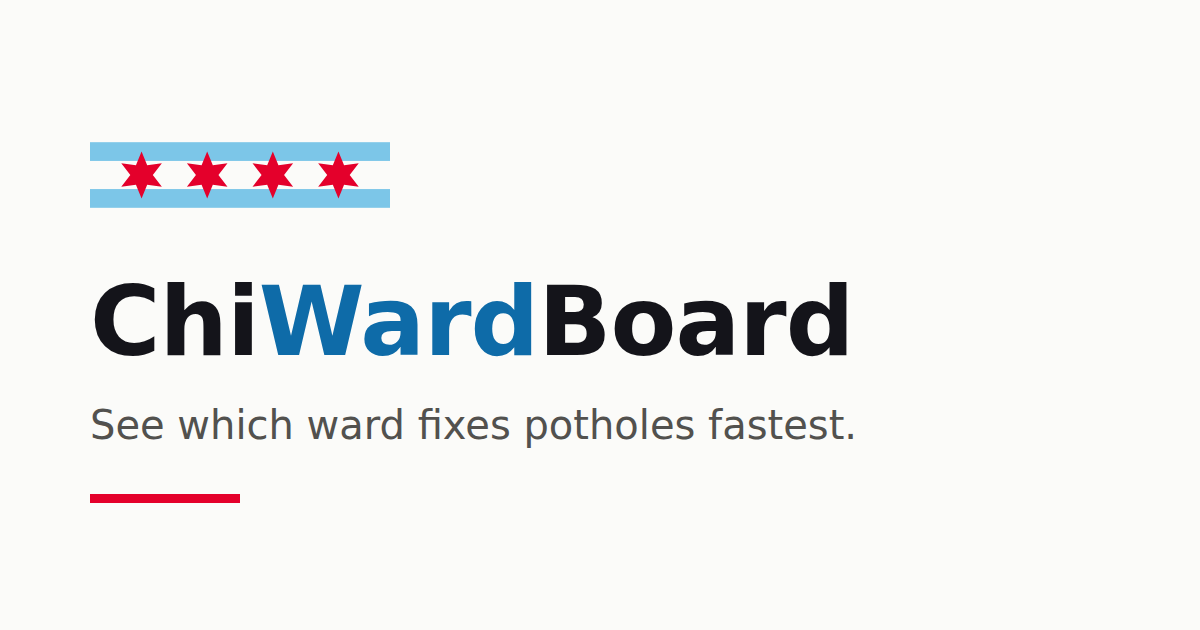
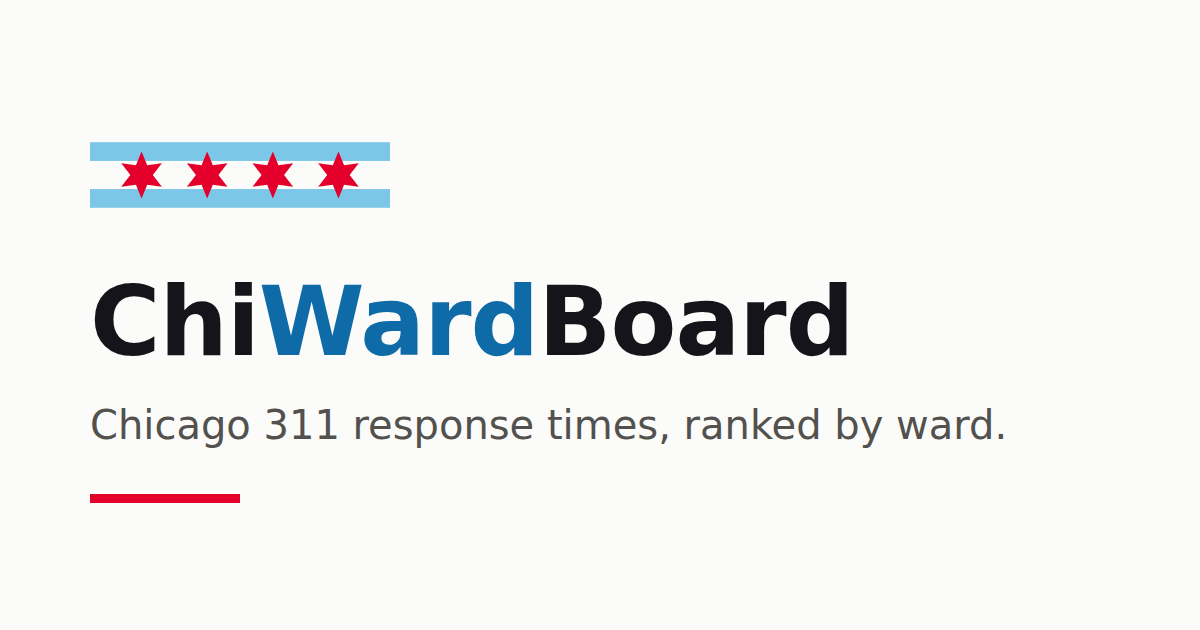
share card: stop printing the same sentence twice
iMessage renders og:title in bold directly beneath the card image, so a
card whose image tagline was also the title showed "See which ward fixes
potholes fastest" twice, once inside the picture and once under it. The
title is the hook and keeps those words; the image now says what the site
is instead of repeating them. The new line also reads correctly under a
ward page's title, which matters because all 50 share this one card.

The share text drops its "- ChiWardBoard" sign-off for the same reason:
the card already carries the name above it, and the URL carries it again.

og:image:alt follows the image it describes, and the image URL is
versioned - the file changed but its path did not, and link crawlers
cache the picture hard enough that they would keep serving the old one.

Changed region(s): [[0.0617, 0.6333, 0.8325, 0.7238]]

diff --git a/ward-24.html b/ward-24.html
@@ -16,14 +16,14 @@
 <meta property="og:url" content="https://chiwardboard.com/ward-24.html">
 <meta property="og:title" content="Ward 24: North Lawndale, South Lawndale, West Garfield Park - ChiWardBoard">
 <meta property="og:description" content="How fast the city closes 311 requests in Chicago's Ward 24 (North Lawndale, South Lawndale, West Garfield Park), represented by Monique L. Scott: 10 request types ranked against the other 49 wards, from public records.">
-<meta property="og:image" content="https://chiwardboard.com/assets/og.png">
+<meta property="og:image" content="https://chiwardboard.com/assets/og.png?v=2">
 <meta property="og:image:width" content="1200">
 <meta property="og:image:height" content="630">
-<meta property="og:image:alt" content="ChiWardBoard - see which ward fixes potholes fastest">
+<meta property="og:image:alt" content="ChiWardBoard - Chicago 311 response times, ranked by ward">
 <meta name="twitter:card" content="summary_large_image">
 <meta name="twitter:title" content="Ward 24: North Lawndale, South Lawndale, West Garfield Park - ChiWardBoard">
 <meta name="twitter:description" content="How fast the city closes 311 requests in Chicago's Ward 24 (North Lawndale, South Lawndale, West Garfield Park), represented by Monique L. Scott: 10 request types ranked against the other 49 wards, from public records.">
-<meta name="twitter:image" content="https://chiwardboard.com/assets/og.png">
+<meta name="twitter:image" content="https://chiwardboard.com/assets/og.png?v=2">
 <link rel="preconnect" href="https://fonts.googleapis.com">
 <link rel="preconnect" href="https://fonts.gstatic.com" crossorigin>
 <link href="https://fonts.googleapis.com/css2?family=Big+Shoulders:opsz,wght@10..72,500;10..72,700;10..72,800&display=swap" rel="stylesheet">

diff --git a/ward-5.html b/ward-5.html
@@ -16,14 +16,14 @@
 <meta property="og:url" content="https://chiwardboard.com/ward-5.html">
 <meta property="og:title" content="Ward 5: South Shore, Hyde Park, Greater Grand Crossing - ChiWardBoard">
 <meta property="og:description" content="How fast the city closes 311 requests in Chicago's Ward 5 (South Shore, Hyde Park, Greater Grand Crossing), represented by Desmon C. Yancy: 10 request types ranked against the other 49 wards, from public records.">
-<meta property="og:image" content="https://chiwardboard.com/assets/og.png">
+<meta property="og:image" content="https://chiwardboard.com/assets/og.png?v=2">
 <meta property="og:image:width" content="1200">
 <meta property="og:image:height" content="630">
-<meta property="og:image:alt" content="ChiWardBoard - see which ward fixes potholes fastest">
+<meta property="og:image:alt" content="ChiWardBoard - Chicago 311 response times, ranked by ward">
 <meta name="twitter:card" content="summary_large_image">
 <meta name="twitter:title" content="Ward 5: South Shore, Hyde Park, Greater Grand Crossing - ChiWardBoard">
 <meta name="twitter:description" content="How fast the city closes 311 requests in Chicago's Ward 5 (South Shore, Hyde Park, Greater Grand Crossing), represented by Desmon C. Yancy: 10 request types ranked against the other 49 wards, from public records.">
-<meta name="twitter:image" content="https://chiwardboard.com/assets/og.png">
+<meta name="twitter:image" content="https://chiwardboard.com/assets/og.png?v=2">
 <link rel="preconnect" href="https://fonts.googleapis.com">
 <link rel="preconnect" href="https://fonts.gstatic.com" crossorigin>
 <link href="https://fonts.googleapis.com/css2?family=Big+Shoulders:opsz,wght@10..72,500;10..72,700;10..72,800&display=swap" rel="stylesheet">

diff --git a/ward-17.html b/ward-17.html
@@ -16,14 +16,14 @@
 <meta property="og:url" content="https://chiwardboard.com/ward-17.html">
 <meta property="og:title" content="Ward 17: Auburn Gresham, West Englewood, Chicago Lawn - ChiWardBoard">
 <meta property="og:description" content="How fast the city closes 311 requests in Chicago's Ward 17 (Auburn Gresham, West Englewood, Chicago Lawn), represented by David H. Moore: 10 request types ranked against the other 49 wards, from public records.">
-<meta property="og:image" content="https://chiwardboard.com/assets/og.png">
+<meta property="og:image" content="https://chiwardboard.com/assets/og.png?v=2">
 <meta property="og:image:width" content="1200">
 <meta property="og:image:height" content="630">
-<meta property="og:image:alt" content="ChiWardBoard - see which ward fixes potholes fastest">
+<meta property="og:image:alt" content="ChiWardBoard - Chicago 311 response times, ranked by ward">
 <meta name="twitter:card" content="summary_large_image">
 <meta name="twitter:title" content="Ward 17: Auburn Gresham, West Englewood, Chicago Lawn - ChiWardBoard">
 <meta name="twitter:description" content="How fast the city closes 311 requests in Chicago's Ward 17 (Auburn Gresham, West Englewood, Chicago Lawn), represented by David H. Moore: 10 request types ranked against the other 49 wards, from public records.">
-<meta name="twitter:image" content="https://chiwardboard.com/assets/og.png">
+<meta name="twitter:image" content="https://chiwardboard.com/assets/og.png?v=2">
 <link rel="preconnect" href="https://fonts.googleapis.com">
 <link rel="preconnect" href="https://fonts.gstatic.com" crossorigin>
 <link href="https://fonts.googleapis.com/css2?family=Big+Shoulders:opsz,wght@10..72,500;10..72,700;10..72,800&display=swap" rel="stylesheet">

diff --git a/ward-21.html b/ward-21.html
@@ -16,14 +16,14 @@
 <meta property="og:url" content="https://chiwardboard.com/ward-21.html">
 <meta property="og:title" content="Ward 21: Washington Heights, West Pullman, Roseland - ChiWardBoard">
 <meta property="og:description" content="How fast the city closes 311 requests in Chicago's Ward 21 (Washington Heights, West Pullman, Roseland), represented by Ronnie L. Mosley: 10 request types ranked against the other 49 wards, from public records.">
-<meta property="og:image" content="https://chiwardboard.com/assets/og.png">
+<meta property="og:image" content="https://chiwardboard.com/assets/og.png?v=2">
 <meta property="og:image:width" content="1200">
 <meta property="og:image:height" content="630">
-<meta property="og:image:alt" content="ChiWardBoard - see which ward fixes potholes fastest">
+<meta property="og:image:alt" content="ChiWardBoard - Chicago 311 response times, ranked by ward">
 <meta name="twitter:card" content="summary_large_image">
 <meta name="twitter:title" content="Ward 21: Washington Heights, West Pullman, Roseland - ChiWardBoard">
 <meta name="twitter:description" content="How fast the city closes 311 requests in Chicago's Ward 21 (Washington Heights, West Pullman, Roseland), represented by Ronnie L. Mosley: 10 request types ranked against the other 49 wards, from public records.">
-<meta name="twitter:image" content="https://chiwardboard.com/assets/og.png">
+<meta name="twitter:image" content="https://chiwardboard.com/assets/og.png?v=2">
 <link rel="preconnect" href="https://fonts.googleapis.com">
 <link rel="preconnect" href="https://fonts.gstatic.com" crossorigin>
 <link href="https://fonts.googleapis.com/css2?family=Big+Shoulders:opsz,wght@10..72,500;10..72,700;10..72,800&display=swap" rel="stylesheet">

diff --git a/ward-45.html b/ward-45.html
@@ -16,14 +16,14 @@
 <meta property="og:url" content="https://chiwardboard.com/ward-45.html">
 <meta property="og:title" content="Ward 45: Jefferson Park, Portage Park, Forest Glen - ChiWardBoard">
 <meta property="og:description" content="How fast the city closes 311 requests in Chicago's Ward 45 (Jefferson Park, Portage Park, Forest Glen), represented by James M. Gardiner: 10 request types ranked against the other 49 wards, from public records.">
-<meta property="og:image" content="https://chiwardboard.com/assets/og.png">
+<meta property="og:image" content="https://chiwardboard.com/assets/og.png?v=2">
 <meta property="og:image:width" content="1200">
 <meta property="og:image:height" content="630">
-<meta property="og:image:alt" content="ChiWardBoard - see which ward fixes potholes fastest">
+<meta property="og:image:alt" content="ChiWardBoard - Chicago 311 response times, ranked by ward">
 <meta name="twitter:card" content="summary_large_image">
 <meta name="twitter:title" content="Ward 45: Jefferson Park, Portage Park, Forest Glen - ChiWardBoard">
 <meta name="twitter:description" content="How fast the city closes 311 requests in Chicago's Ward 45 (Jefferson Park, Portage Park, Forest Glen), represented by James M. Gardiner: 10 request types ranked against the other 49 wards, from public records.">
-<meta name="twitter:image" content="https://chiwardboard.com/assets/og.png">
+<meta name="twitter:image" content="https://chiwardboard.com/assets/og.png?v=2">
 <link rel="preconnect" href="https://fonts.googleapis.com">
 <link rel="preconnect" href="https://fonts.gstatic.com" crossorigin>
 <link href="https://fonts.googleapis.com/css2?family=Big+Shoulders:opsz,wght@10..72,500;10..72,700;10..72,800&display=swap" rel="stylesheet">

diff --git a/ward-7.html b/ward-7.html
@@ -16,14 +16,14 @@
 <meta property="og:url" content="https://chiwardboard.com/ward-7.html">
 <meta property="og:title" content="Ward 7: South Shore, South Chicago, South Deering - ChiWardBoard">
 <meta property="og:description" content="How fast the city closes 311 requests in Chicago's Ward 7 (South Shore, South Chicago, South Deering), represented by Gregory I. Mitchell: 10 request types ranked against the other 49 wards, from public records.">
-<meta property="og:image" content="https://chiwardboard.com/assets/og.png">
+<meta property="og:image" content="https://chiwardboard.com/assets/og.png?v=2">
 <meta property="og:image:width" content="1200">
 <meta property="og:image:height" content="630">
-<meta property="og:image:alt" content="ChiWardBoard - see which ward fixes potholes fastest">
+<meta property="og:image:alt" content="ChiWardBoard - Chicago 311 response times, ranked by ward">
 <meta name="twitter:card" content="summary_large_image">
 <meta name="twitter:title" content="Ward 7: South Shore, South Chicago, South Deering - ChiWardBoard">
 <meta name="twitter:description" content="How fast the city closes 311 requests in Chicago's Ward 7 (South Shore, South Chicago, South Deering), represented by Gregory I. Mitchell: 10 request types ranked against the other 49 wards, from public records.">
-<meta name="twitter:image" content="https://chiwardboard.com/assets/og.png">
+<meta name="twitter:image" content="https://chiwardboard.com/assets/og.png?v=2">
 <link rel="preconnect" href="https://fonts.googleapis.com">
 <link rel="preconnect" href="https://fonts.gstatic.com" crossorigin>
 <link href="https://fonts.googleapis.com/css2?family=Big+Shoulders:opsz,wght@10..72,500;10..72,700;10..72,800&display=swap" rel="stylesheet">

diff --git a/ward-16.html b/ward-16.html
@@ -16,14 +16,14 @@
 <meta property="og:url" content="https://chiwardboard.com/ward-16.html">
 <meta property="og:title" content="Ward 16: Chicago Lawn, West Englewood, Englewood - ChiWardBoard">
 <meta property="og:description" content="How fast the city closes 311 requests in Chicago's Ward 16 (Chicago Lawn, West Englewood, Englewood), represented by Stephanie D. Coleman: 10 request types ranked against the other 49 wards, from public records.">
-<meta property="og:image" content="https://chiwardboard.com/assets/og.png">
+<meta property="og:image" content="https://chiwardboard.com/assets/og.png?v=2">
 <meta property="og:image:width" content="1200">
 <meta property="og:image:height" content="630">
-<meta property="og:image:alt" content="ChiWardBoard - see which ward fixes potholes fastest">
+<meta property="og:image:alt" content="ChiWardBoard - Chicago 311 response times, ranked by ward">
 <meta name="twitter:card" content="summary_large_image">
 <meta name="twitter:title" content="Ward 16: Chicago Lawn, West Englewood, Englewood - ChiWardBoard">
 <meta name="twitter:description" content="How fast the city closes 311 requests in Chicago's Ward 16 (Chicago Lawn, West Englewood, Englewood), represented by Stephanie D. Coleman: 10 request types ranked against the other 49 wards, from public records.">
-<meta name="twitter:image" content="https://chiwardboard.com/assets/og.png">
+<meta name="twitter:image" content="https://chiwardboard.com/assets/og.png?v=2">
 <link rel="preconnect" href="https://fonts.googleapis.com">
 <link rel="preconnect" href="https://fonts.gstatic.com" crossorigin>
 <link href="https://fonts.googleapis.com/css2?family=Big+Shoulders:opsz,wght@10..72,500;10..72,700;10..72,800&display=swap" rel="stylesheet">

diff --git a/ward-27.html b/ward-27.html
@@ -16,14 +16,14 @@
 <meta property="og:url" content="https://chiwardboard.com/ward-27.html">
 <meta property="og:title" content="Ward 27: Near West Side, West Town, Humboldt Park - ChiWardBoard">
 <meta property="og:description" content="How fast the city closes 311 requests in Chicago's Ward 27 (Near West Side, West Town, Humboldt Park), represented by Walter R. Burnett: 10 request types ranked against the other 49 wards, from public records.">
-<meta property="og:image" content="https://chiwardboard.com/assets/og.png">
+<meta property="og:image" content="https://chiwardboard.com/assets/og.png?v=2">
 <meta property="og:image:width" content="1200">
 <meta property="og:image:height" content="630">
-<meta property="og:image:alt" content="ChiWardBoard - see which ward fixes potholes fastest">
+<meta property="og:image:alt" content="ChiWardBoard - Chicago 311 response times, ranked by ward">
 <meta name="twitter:card" content="summary_large_image">
 <meta name="twitter:title" content="Ward 27: Near West Side, West Town, Humboldt Park - ChiWardBoard">
 <meta name="twitter:description" content="How fast the city closes 311 requests in Chicago's Ward 27 (Near West Side, West Town, Humboldt Park), represented by Walter R. Burnett: 10 request types ranked against the other 49 wards, from public records.">
-<meta name="twitter:image" content="https://chiwardboard.com/assets/og.png">
+<meta name="twitter:image" content="https://chiwardboard.com/assets/og.png?v=2">
 <link rel="preconnect" href="https://fonts.googleapis.com">
 <link rel="preconnect" href="https://fonts.gstatic.com" crossorigin>
 <link href="https://fonts.googleapis.com/css2?family=Big+Shoulders:opsz,wght@10..72,500;10..72,700;10..72,800&display=swap" rel="stylesheet">

diff --git a/ward-6.html b/ward-6.html
@@ -16,14 +16,14 @@
 <meta property="og:url" content="https://chiwardboard.com/ward-6.html">
 <meta property="og:title" content="Ward 6: Greater Grand Crossing, Chatham, Englewood - ChiWardBoard">
 <meta property="og:description" content="How fast the city closes 311 requests in Chicago's Ward 6 (Greater Grand Crossing, Chatham, Englewood), represented by William E. Hall: 10 request types ranked against the other 49 wards, from public records.">
-<meta property="og:image" content="https://chiwardboard.com/assets/og.png">
+<meta property="og:image" content="https://chiwardboard.com/assets/og.png?v=2">
 <meta property="og:image:width" content="1200">
 <meta property="og:image:height" content="630">
-<meta property="og:image:alt" content="ChiWardBoard - see which ward fixes potholes fastest">
+<meta property="og:image:alt" content="ChiWardBoard - Chicago 311 response times, ranked by ward">
 <meta name="twitter:card" content="summary_large_image">
 <meta name="twitter:title" content="Ward 6: Greater Grand Crossing, Chatham, Englewood - ChiWardBoard">
 <meta name="twitter:description" content="How fast the city closes 311 requests in Chicago's Ward 6 (Greater Grand Crossing, Chatham, Englewood), represented by William E. Hall: 10 request types ranked against the other 49 wards, from public records.">
-<meta name="twitter:image" content="https://chiwardboard.com/assets/og.png">
+<meta name="twitter:image" content="https://chiwardboard.com/assets/og.png?v=2">
 <link rel="preconnect" href="https://fonts.googleapis.com">
 <link rel="preconnect" href="https://fonts.gstatic.com" crossorigin>
 <link href="https://fonts.googleapis.com/css2?family=Big+Shoulders:opsz,wght@10..72,500;10..72,700;10..72,800&display=swap" rel="stylesheet">

diff --git a/ward-14.html b/ward-14.html
@@ -16,14 +16,14 @@
 <meta property="og:url" content="https://chiwardboard.com/ward-14.html">
 <meta property="og:title" content="Ward 14: Gage Park, Archer Heights, Chicago Lawn - ChiWardBoard">
 <meta property="og:description" content="How fast the city closes 311 requests in Chicago's Ward 14 (Gage Park, Archer Heights, Chicago Lawn), represented by Jeylu B. Gutierrez: 10 request types ranked against the other 49 wards, from public records.">
-<meta property="og:image" content="https://chiwardboard.com/assets/og.png">
+<meta property="og:image" content="https://chiwardboard.com/assets/og.png?v=2">
 <meta property="og:image:width" content="1200">
 <meta property="og:image:height" content="630">
-<meta property="og:image:alt" content="ChiWardBoard - see which ward fixes potholes fastest">
+<meta property="og:image:alt" content="ChiWardBoard - Chicago 311 response times, ranked by ward">
 <meta name="twitter:card" content="summary_large_image">
 <meta name="twitter:title" content="Ward 14: Gage Park, Archer Heights, Chicago Lawn - ChiWardBoard">
 <meta name="twitter:description" content="How fast the city closes 311 requests in Chicago's Ward 14 (Gage Park, Archer Heights, Chicago Lawn), represented by Jeylu B. Gutierrez: 10 request types ranked against the other 49 wards, from public records.">
-<meta name="twitter:image" content="https://chiwardboard.com/assets/og.png">
+<meta name="twitter:image" content="https://chiwardboard.com/assets/og.png?v=2">
 <link rel="preconnect" href="https://fonts.googleapis.com">
 <link rel="preconnect" href="https://fonts.gstatic.com" crossorigin>
 <link href="https://fonts.googleapis.com/css2?family=Big+Shoulders:opsz,wght@10..72,500;10..72,700;10..72,800&display=swap" rel="stylesheet">

diff --git a/ward-47.html b/ward-47.html
@@ -16,14 +16,14 @@
 <meta property="og:url" content="https://chiwardboard.com/ward-47.html">
 <meta property="og:title" content="Ward 47: North Center, Lake View, Lincoln Square - ChiWardBoard">
 <meta property="og:description" content="How fast the city closes 311 requests in Chicago's Ward 47 (North Center, Lake View, Lincoln Square), represented by Matthew J. Martin: 10 request types ranked against the other 49 wards, from public records.">
-<meta property="og:image" content="https://chiwardboard.com/assets/og.png">
+<meta property="og:image" content="https://chiwardboard.com/assets/og.png?v=2">
 <meta property="og:image:width" content="1200">
 <meta property="og:image:height" content="630">
-<meta property="og:image:alt" content="ChiWardBoard - see which ward fixes potholes fastest">
+<meta property="og:image:alt" content="ChiWardBoard - Chicago 311 response times, ranked by ward">
 <meta name="twitter:card" content="summary_large_image">
 <meta name="twitter:title" content="Ward 47: North Center, Lake View, Lincoln Square - ChiWardBoard">
 <meta name="twitter:description" content="How fast the city closes 311 requests in Chicago's Ward 47 (North Center, Lake View, Lincoln Square), represented by Matthew J. Martin: 10 request types ranked against the other 49 wards, from public records.">
-<meta name="twitter:image" content="https://chiwardboard.com/assets/og.png">
+<meta name="twitter:image" content="https://chiwardboard.com/assets/og.png?v=2">
 <link rel="preconnect" href="https://fonts.googleapis.com">
 <link rel="preconnect" href="https://fonts.gstatic.com" crossorigin>
 <link href="https://fonts.googleapis.com/css2?family=Big+Shoulders:opsz,wght@10..72,500;10..72,700;10..72,800&display=swap" rel="stylesheet">

diff --git a/ward-26.html b/ward-26.html
@@ -16,14 +16,14 @@
 <meta property="og:url" content="https://chiwardboard.com/ward-26.html">
 <meta property="og:title" content="Ward 26: Humboldt Park, West Town, Logan Square - ChiWardBoard">
 <meta property="og:description" content="How fast the city closes 311 requests in Chicago's Ward 26 (Humboldt Park, West Town, Logan Square), represented by Jessica L. Fuentes: 10 request types ranked against the other 49 wards, from public records.">
-<meta property="og:image" content="https://chiwardboard.com/assets/og.png">
+<meta property="og:image" content="https://chiwardboard.com/assets/og.png?v=2">
 <meta property="og:image:width" content="1200">
 <meta property="og:image:height" content="630">
-<meta property="og:image:alt" content="ChiWardBoard - see which ward fixes potholes fastest">
+<meta property="og:image:alt" content="ChiWardBoard - Chicago 311 response times, ranked by ward">
 <meta name="twitter:card" content="summary_large_image">
 <meta name="twitter:title" content="Ward 26: Humboldt Park, West Town, Logan Square - ChiWardBoard">
 <meta name="twitter:description" content="How fast the city closes 311 requests in Chicago's Ward 26 (Humboldt Park, West Town, Logan Square), represented by Jessica L. Fuentes: 10 request types ranked against the other 49 wards, from public records.">
-<meta name="twitter:image" content="https://chiwardboard.com/assets/og.png">
+<meta name="twitter:image" content="https://chiwardboard.com/assets/og.png?v=2">
 <link rel="preconnect" href="https://fonts.googleapis.com">
 <link rel="preconnect" href="https://fonts.gstatic.com" crossorigin>
 <link href="https://fonts.googleapis.com/css2?family=Big+Shoulders:opsz,wght@10..72,500;10..72,700;10..72,800&display=swap" rel="stylesheet">
